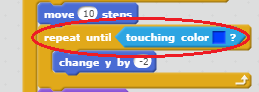
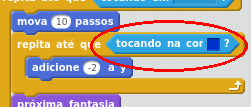
Review in pt-br Cats

diff --git a/pt-br/step_5.md b/pt-br/step_5.md
@@ -1,62 +1,62 @@
-## Moving cats
+## Movendo gatos
 
-When a cat has appeared and fallen until it reaches the floor, we want it to step slowly to the right.
+Quando um gato aparecer e cair até chegar ao chão, queremos que ele pise lentamente para a direita.
 
-+ Add some code to the `when I start as a clone` section to make the cat sprite move ten steps, and switch between the two costumes every 0.1 seconds to make it look like the cat is walking.
++ Adicione um código ao `quando eu começar como clone` a seção para fazer o ator do gato mover dez passos, e alternar entre as duas fantasias a cada 0.1 segundos para fazer parecer que o gato está caminhando.
 
-![Two costumes](images/two-costumes.png)
+![Duas fantasias](images/two-costumes.png)
 
 --- hints ---
 --- hint ---
-The cat sprite should `move 10 steps`, and `switch costume` every `0.1 seconds`. This code (as well as the code to make the cat fall) should repeat `forever`.
+O ator do gato deve `mover 10 passos`, e `trocar de fantasia` a cada `0.1 segundos`. Este código (bem como o código para fazer cair o gato) deve repetir `para sempre`.
 --- /hint ---
 
 --- hint ---
-Here are the code blocks you'll need:
-![Moving cat hint](images/moving-cat-hint.png)
+Aqui estão os blocos de código que você precisará:
+![Sugestão do gato em movimento](images/moving-cat-hint.png)
 --- /hint ---
 
 --- hint ---
-This is what your code should look like:
-![Moving cat hint](images/moving-cat-solution.png)
+É assim que o seu código deve aparecer:
+![Sugestão de gato em movimento](images/moving-cat-solution.png)
 --- /hint ---
 
 --- /hints ---
 
-+ Press the green flag and check that the cats now move along the blue platform at the bottom.
++ Pressione a bandeira verde e verifique se os gatos agora se movem ao longo da plataforma azul na parte inferior.
 
-You will notice that, if you draw a bridge across the gap so that the cats can get all the way to the right edge of the screen, they end up getting stuck walking into the wall.
+Você notará que, se você desenhar uma ponte sobre o espaço para que os gatos possam chegar até a borda direita da tela, eles acabam ficando presos entrando na parede.
 
-![Flailing cats at the edge](images/flailing-at-edge.png)
+![Gatos presos na borda](images/flailing-at-edge.png)
 
-+ Remove the forever loop you added, and instead add a different loop to make the cats only walk until they reach an edge. When a cat reaches the edge of the screen, it should disappear.
++ Remova o loop para sempre que você adicionou, e, em vez disso, adicione um loop diferente para que os gatos só caminhem até chegarem a uma borda. Quando um gato atinge a borda da tela, deve desaparecer.
 
 --- hints ---
 --- hint ---
-Remove the forever loop and replace it with a different loop which repeats `until the cats are touching the edge`. Once they reach an edge, add a block to `delete the clone`, which will make the cat disappear.
+Remova o loop para sempre e substitua-o por um loop diferente que repete `até que os gatos toquem a borda`. Uma vez que eles alcançam uma vantagem, adicione um bloco para `apague o clone`, o que fará desaparecer o gato.
 --- /hint ---
 
 --- hint ---
-Here are the new code blocks you'll need to add:
+Aqui estão os novos blocos de código que você precisará adicionar:
 
-![Disappear at edge hint](images/disappear-at-edge-hint.png)
+![Desaparecer na sugestão da borda](images/disappear-at-edge-hint.png)
 --- /hint ---
 
 --- hint ---
-This is what your code should look like:
-![Disappear at edge solution](images/disappear-at-edge-solution.png)
+É assim que o seu código deve aparecer:
+![Desaparecer na solução de borda](images/disappear-at-edge-solution.png)
 --- /hint ---
 
 --- /hints ---
 
-+ Press the green flag and check that the cats disappear when they reach the edge of the screen.
++ Pressione a bandeira verde e verifique se os gatos desaparecem quando atingem a borda da tela.
 
-You might notice that the cats don't disappear properly if they fall into the hole, they just get stuck at the bottom. This is because the sprite is getting stuck trying to fall!
+Você pode notar que os gatos não desaparecem devidamente se caírem no buraco, eles simplesmente ficam presos no fundo. Isso ocorre porque o ator está ficando preso tentando cair!
 
-This code tells the cat to keep falling until it touches blue. However, in the hole the cat will never reach blue, so it is stuck forever.
+Este código diz ao gato para continuar caindo até tocar em azul. Contudo, no buraco o gato nunca chegará ao azul, então está preso para sempre.
 
-![Cats get stuck](images/cats-get-stuck.png)
+![Gatos ficam presos](images/cats-get-stuck.png)
 
-+ Add more blocks to this loop to tell it to repeat until it is touching blue `or touching the edge`. This way, the sprite will stop trying to fall if it reaches the edge of the screen.
++ Adicione mais blocos a este loop para dizer para repetir até tocar em azul `ou tocando a borda`. Deste jeito, o ator irá parar de tentar cair se atingir a borda da tela.
 
-![Cats disappear properly at the bottom](images/disappear-at-bottom.png)
+![Os gatos desaparecem devidamente no fundo](images/disappear-at-bottom.png)

diff --git a/pt-br/step_4.md b/pt-br/step_4.md
@@ -1,33 +1,33 @@
-## Cloning cats
+## Clonando os gatos
 
-We want to generate an infinite stream of cats that the player will guide along the path to the exit.
+Queremos gerar um fluxo infinito de gatos que o jogador guie ao longo do caminho até a saída.
 
-+ Click on the sprite called **Cat**, and add some code to make it invisible, and also to clone it every three seconds.
++ Clique no ator chamado ** Cat ** e adicione algum código para torná-lo invisível, e também para cloná-lo a cada três segundos.
 
-![Clone a cat](images/clone-a-cat.png)
+![Clone um gato](images/clone-a-cat.png)
 
-If you run the program at the moment, nothing will happen. Let's make each cloned cat appear and fall out of the sky, so we can check that a new one is being created every three seconds.
+Se você executar o programa no momento, nada acontecerá. Vamos fazer aparecer cada gato clonado cair do céu, então podemos verificar que um novo está sendo criado a cada três segundos.
 
-+ Add some code to tell the sprite that when it starts as a clone, it should become visible and fall until it reaches the blue floor which is drawn on the stage
++ Adicione algum código para dizer ao ator que quando ele começa como um clone, deve tornar-se visível e cair até chegar ao chão azul que é desenhado no palco
 
 --- hints ---
 --- hint ---
-`When the sprite starts as a clone`  `show` the sprite. `Repeat` this until it `touches` the blue stage. `Change` the y coordinate of the sprite by `-2`.
+`Quando o ator começa como um clone`  `mostre` o ator. `Repita` isso até `tocar` o palco azul. `Mude` a coordenada y do ator para `-2`.
 --- /hint ---
 
 --- hint ---
-Here are the code blocks you'll need:
+Aqui estão os blocos de código que você precisará:
 
-![Drawing with the pen hint](images/falling-cat-hint.png)
+![Desenho com a sugestão da caneta](images/falling-cat-hint.png)
 --- /hint ---
 
 --- hint ---
-This is what your code should look like:
-![Drawing with the pen solution](images/falling-cat-solution.png)
+É assim que o seu código deve aparecer:
+![Desenho com a solução da caneta](images/falling-cat-solution.png)
 --- /hint ---
 
 --- /hints ---
 
-When you press the green flag, you should see a new cat falling out of the sky every three seconds and landing in a big pile of overlapping cats on the blue floor at the bottom.
+Quando você pressionar a bandeira verde, você deve ver um novo gato caindo do céu a cada três segundos e pousando em uma grande pilha de gatos sobrepostos no chão azul no fundo.
 
-![Falling cats](images/falling-cats.png)
+![Gatos caindo](images/falling-cats.png)
